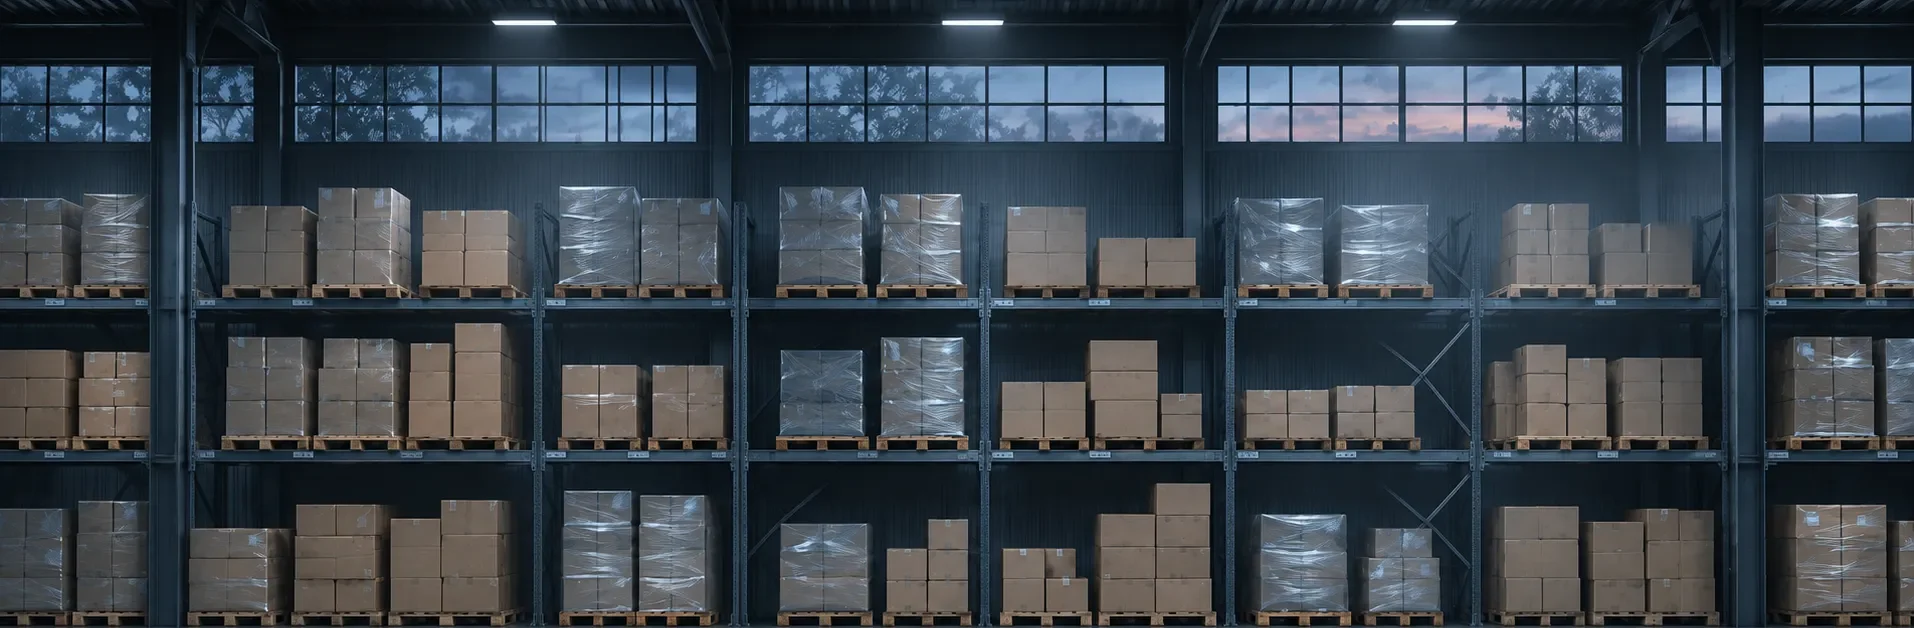
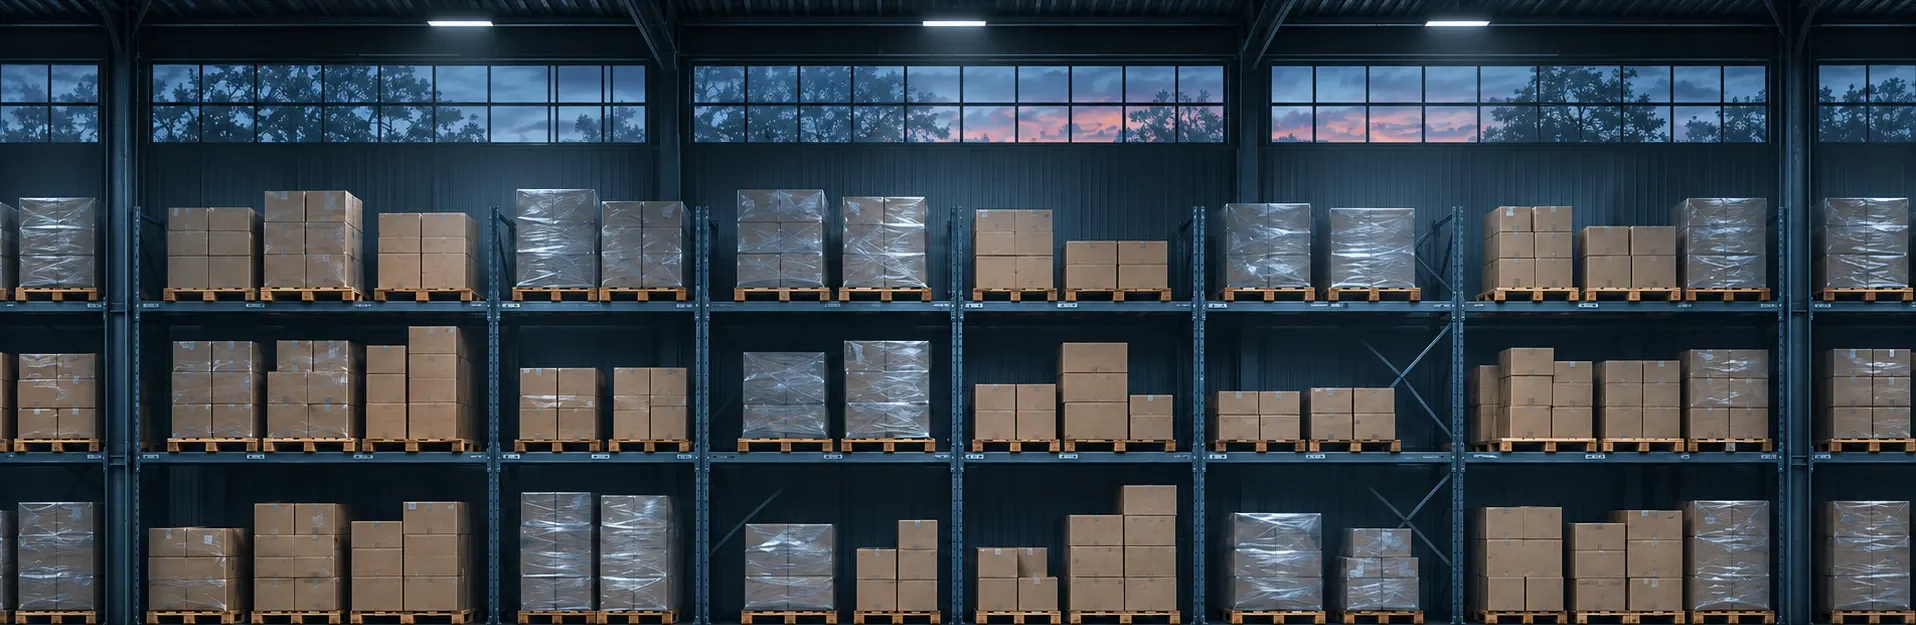
물류창고 배경 이미지 교체
Claude-Session: https://claude.ai/code/session_01FsrsoNXQBGofTPYD7wHu6t

diff --git a/boxstory.html b/boxstory.html
@@ -304,7 +304,7 @@ function build(){
   for(let x=-1000;x<800;x+=400) for(let z=-800;z<1200;z+=400)
     plane(S,400,400,T(x+200,0,z+200)+' rotateX(90deg)','f',floorBg(x,z,400));
   // 안쪽 벽: 창고 선반 사진 (img/bg_warehouse.webp, 사진 아래 바닥 부분은 잘라냄). 가로로 이어 붙임
-  { const BW=1800, BH=BW*628/1914;
+  { const BW=1800, BH=BW*625/1916;
     // 한 장짜리 큰 면은 브라우저가 못 그려서 사진 한 장 크기씩 나눠서 깖 (가운데 + 좌우)
     for(const k of [-1,0,1]) plane(S,BW+1,BH,T(-100+k*BW,-BH/2,-720),'f',{backgroundColor:'#121A22',
       backgroundImage:'url(img/bg_warehouse.webp)',backgroundSize:'100% 100%'}); }
